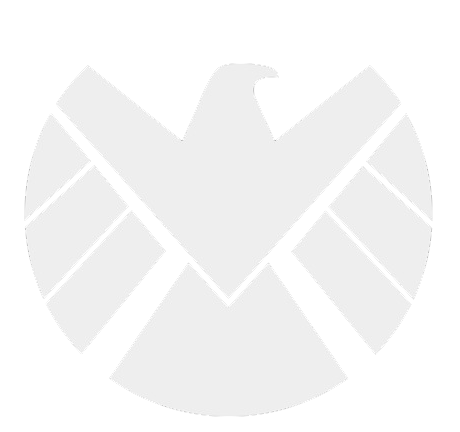
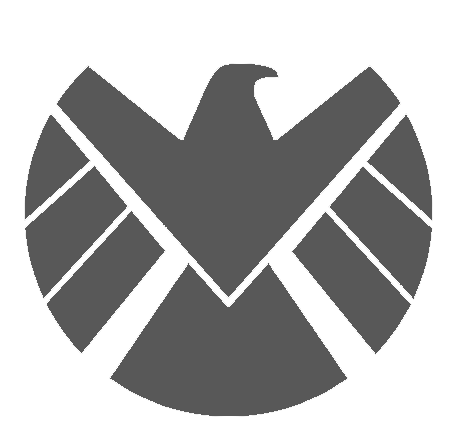
Raul's changes 2.0
added page template

diff --git a/css/defaultPage.css b/css/defaultPage.css
@@ -9,19 +9,27 @@ body{
     width: 100%;
     text-align: right;
     bottom: 0px;
+    z-index:-1;
 }
 
-@media (max-width: 767.98px) {
+@media (max-width: 767.98px) { /* Any screen less than 768px will not see the shied logo*/
+  #shieldLogoOnPage {
+    display: none;
+  }
+}
+
+@media (max-width: 767.98px) { /* Any screen less than 768px will not see the menu*/
   #right {
     display: none;
   }
 }
 
-@media (min-width: 768px){
+@media (min-width: 768px){ /* Any screen larger than 768px will see the menu*/
     #right {
         position: fixed;
         top: 70px;
         bottom: 0;
+        
     }
 }
 

diff --git a/template.html b/template.html
@@ -178,6 +178,13 @@
     </div>
   </div>
 </div>
+<!-- End of the content/Links grid-->
+
+<!-- Beow is the image div for the logo to be presented for aesthetics-->
+<div id="shieldLogoOnPage">
+<img src="img/ShieldAlpha.png" alt="...">
+</div>
+
 
 </body>
 
